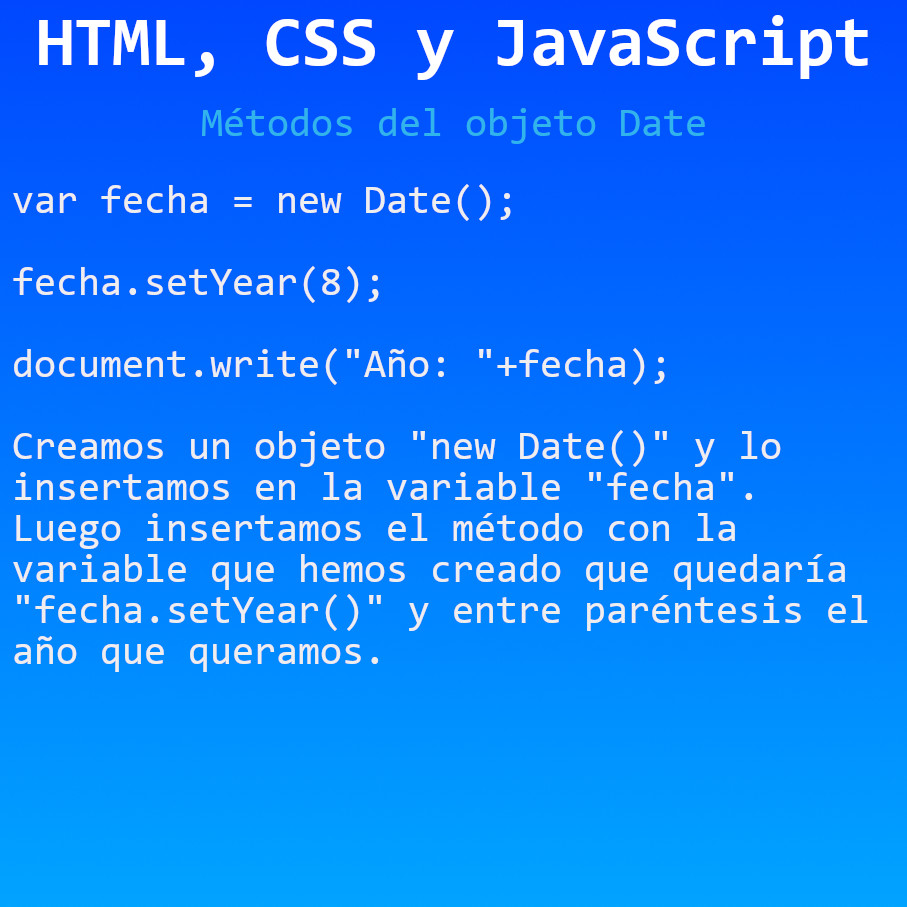
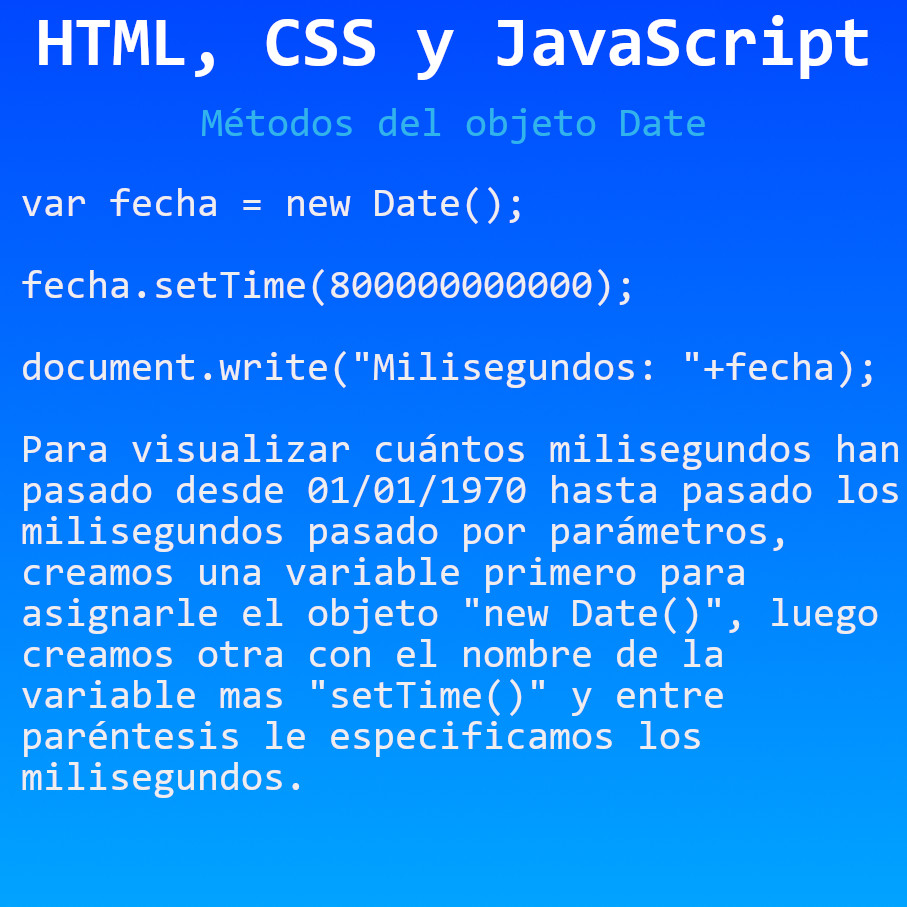
Métodos del objeto Date
Métodos del objeto Date en JavaScript

diff --git a/HTML, CSS y JavaScript/Métodos del objeto Date/js/funciones.js b/HTML, CSS y JavaScript/Métodos del objeto Date/js/funciones.js
@@ -120,3 +120,10 @@ fecha.setYear(8);
 document.write("Año: "+fecha);
 // SALTO DE LÍNEA
 document.write("<hr>");
+// VER TIEMPO EN MILISEGUNDOS
+// coger tiempo pasado en milisegundos desde 1970
+fecha.setTime(800000000000);
+// MOSTRAR EN PANTALLA
+document.write("Milisegundos: "+fecha);
+// SALTO DE LÍNEA
+document.write("<hr>");
